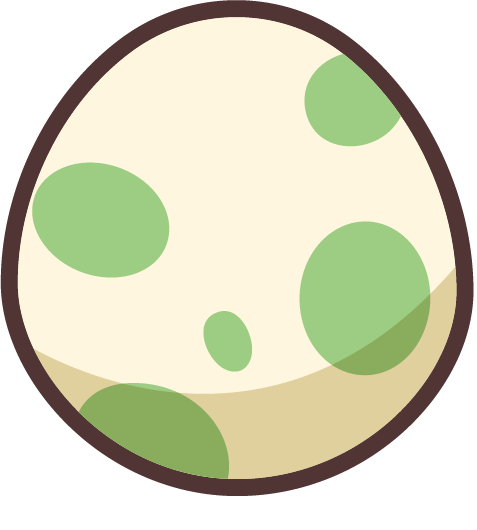
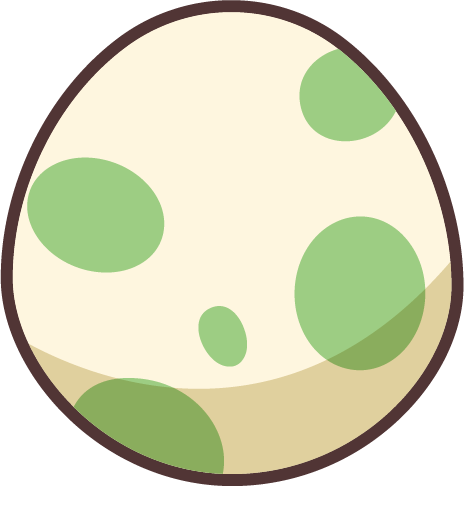
이미지 수정, 이미지 크기 수정

diff --git a/css/style.css b/css/style.css
@@ -733,6 +733,10 @@ div.comment>div.text-box {
     background-color: #FCF5DF;
 }
 
+#step-2 .con .slick-list{
+    overflow-x: hidden;
+    overflow-y: visible;
+}
 
 #step-2 .con>.title-box {
     text-align: center;
@@ -770,14 +774,14 @@ div.comment>div.text-box {
 }
 
 #step-2 .con>.card-slide .card>img[alt="pokedex"] {
-    transform: translateY(10px);
+    transform: scale(0.9);
 }
 
 #step-2 .con>.card-slide .card>.card-num {
     font-size: 5em;
     font-family: 'MaplestoryOTFBold', sans-serif;
     position: absolute;
-    top: -2.5%;
+    top: -6%;
     left: 50%;
     transform: translateX(-50%) translateY(-50%);
     z-index: 6;
@@ -1328,10 +1332,11 @@ div.comment>div.text-box {
 
 #end .con>.egg>img.egg-top {
     position: absolute;
-    bottom: 37%;
+    bottom: 50%;
     left: 0;
     z-index: 0;
     transition: bottom 0.7s 0s;
+    transform: scale(0.96) translateX(-7px);
 }
 
 
@@ -1343,7 +1348,7 @@ div.comment>div.text-box {
 #end .con>.egg>img.egg-bottom.back {
     position: absolute;
     width: 90%;
-    top: 3px;
+    top: -6px;
     left: 50%;
     z-index: -1;
     transform: translateX(-50%);
